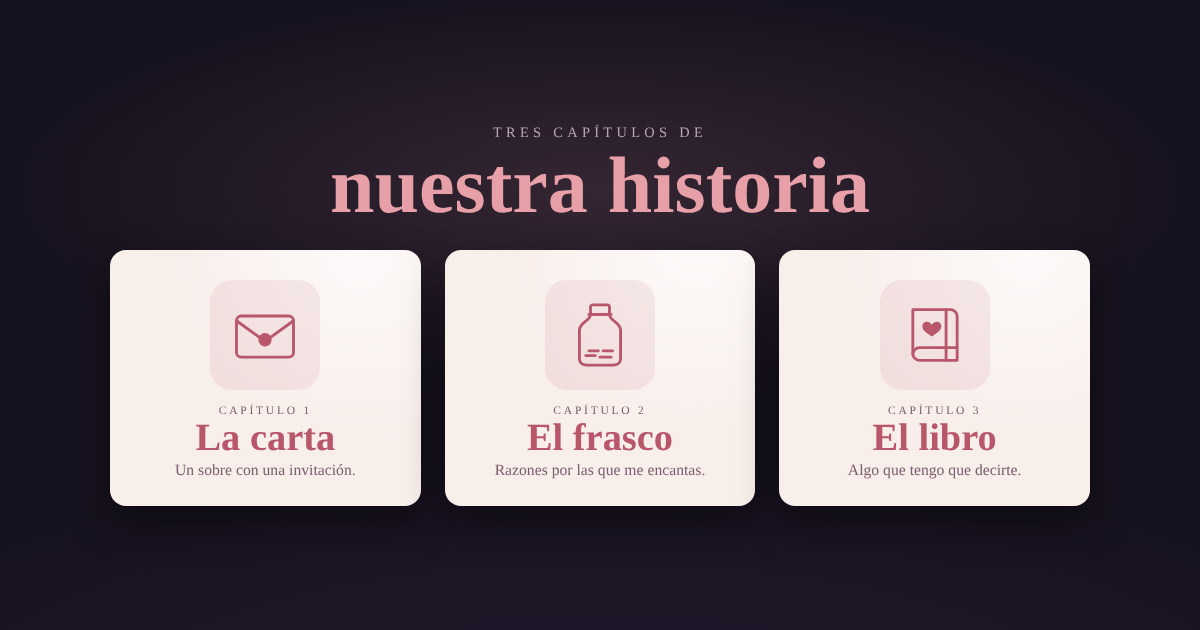
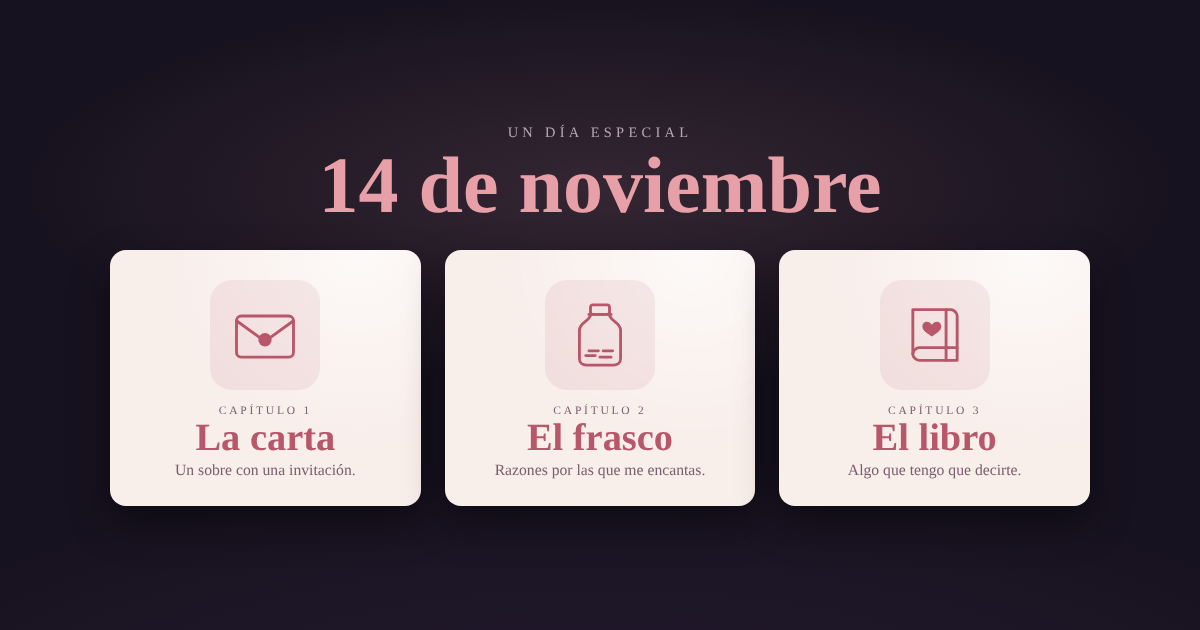
Inicio: título con la fecha, 14 de noviembre
Claude-Session: https://claude.ai/code/session_01WqeuTAJcrPEzumkahj6Rcc

Changed region(s): [[0.2775, 0.181, 0.74, 0.3619]]

diff --git a/index.html b/index.html
@@ -3,16 +3,16 @@
 <head>
 <meta charset="utf-8">
 <meta name="viewport" content="width=device-width, initial-scale=1, viewport-fit=cover">
-<title>Nuestra historia</title>
-<meta name="description" content="Tres capítulos de nuestra historia.">
+<title>14 de noviembre</title>
+<meta name="description" content="Un día especial.">
 <meta name="theme-color" content="#17121f">
 <meta name="apple-mobile-web-app-capable" content="yes">
 <meta name="mobile-web-app-capable" content="yes">
 <meta name="apple-mobile-web-app-status-bar-style" content="black-translucent">
-<meta name="apple-mobile-web-app-title" content="Para ti">
+<meta name="apple-mobile-web-app-title" content="14 de noviembre">
 <link rel="apple-touch-icon" href="icono.png">
 <link rel="icon" type="image/png" href="icono.png">
-<meta property="og:title" content="Tres capítulos de nuestra historia">
+<meta property="og:title" content="14 de noviembre · Un día especial">
 <meta property="og:description" content="La carta, el frasco y el libro.">
 <meta property="og:type" content="website">
 <meta property="og:image" content="https://fabio2305.github.io/Invitacion/vista-previa.png">
@@ -109,8 +109,8 @@ h1 { margin: 0; font-family: var(--font-hand); font-weight: 700; font-size: clam
 <body>
 <div id="app">
   <header>
-    <span class="k">Tres capítulos de</span>
-    <h1>nuestra historia</h1>
+    <span class="k">Un día especial</span>
+    <h1>14 de noviembre</h1>
   </header>
 
   <ol class="cards">
